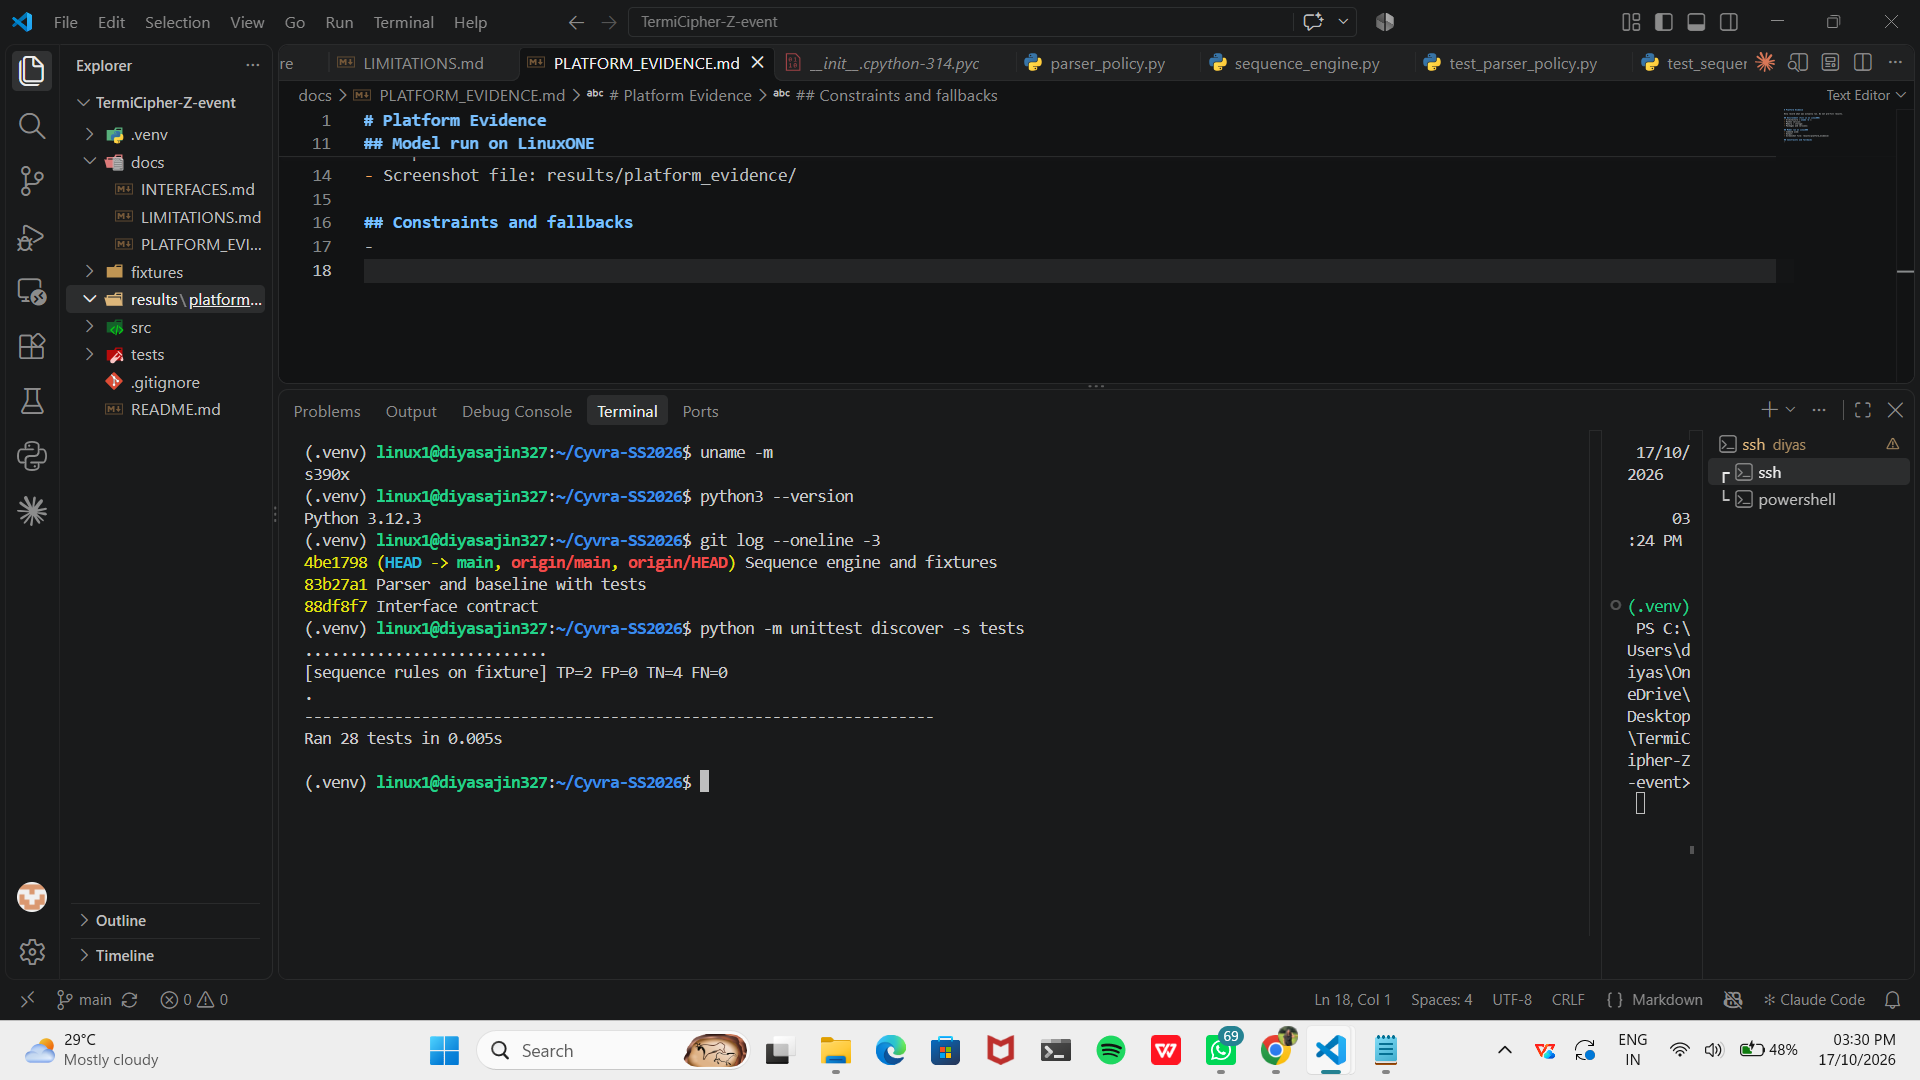
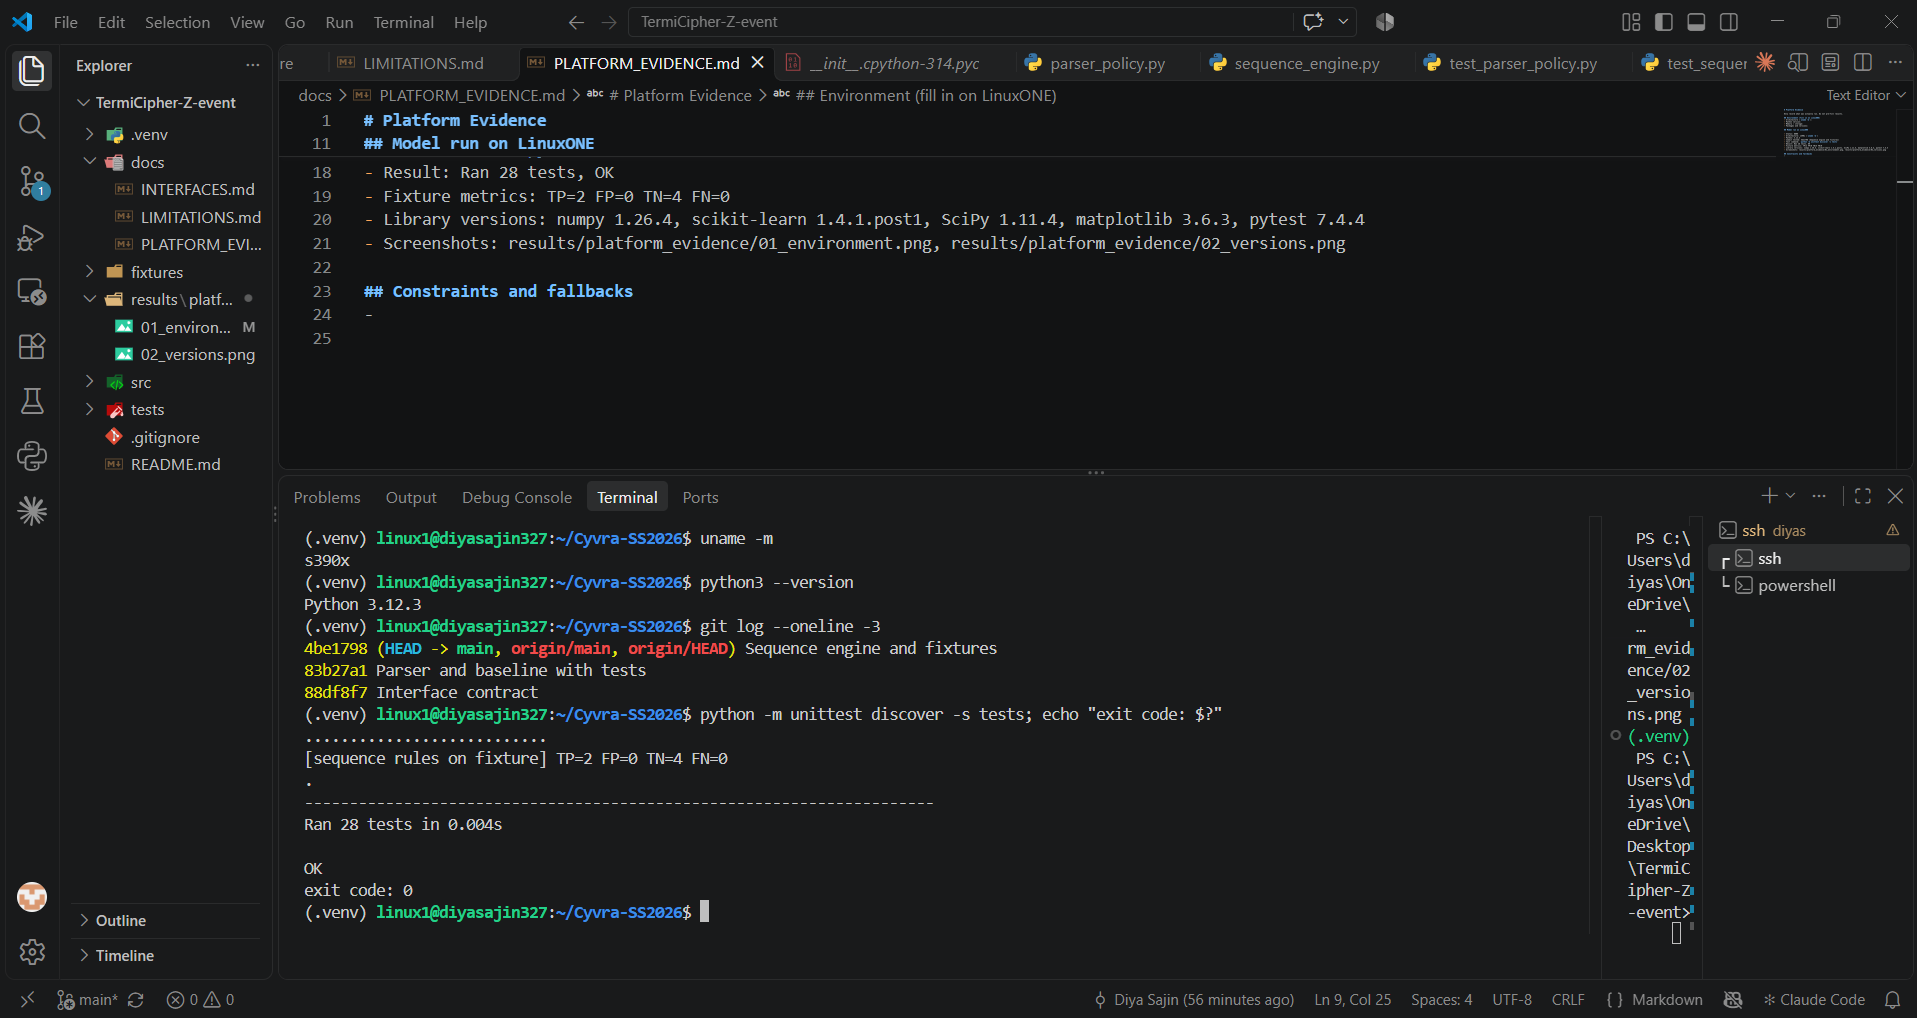
Complete LinuxONE evidence and environment details

diff --git a/docs/PLATFORM_EVIDENCE.md b/docs/PLATFORM_EVIDENCE.md
@@ -3,10 +3,10 @@
 Only record what was actually run. Do not pre-fill results.
 
 ## Environment (fill in on LinuxONE)
-- Architecture (`uname -m`):
-- Python version:
-- Memory / storage:
-- Packages and versions:
+- Architecture (`uname -m`): s390x
+- Python version: 3.12.3
+- Memory / storage: 7.8 GiB RAM (6.6 GiB available), no swap; 50 GB root disk, 3.0 GB used, 45 GB free
+- Packages and versions: numpy 1.26.4, scikit-learn 1.4.1.post1, SciPy 1.11.4, matplotlib 3.6.3, pytest 7.4.4
 
 ## Model run on LinuxONE
 
@@ -21,4 +21,4 @@ Only record what was actually run. Do not pre-fill results.
 - Screenshots: results/platform_evidence/01_environment.png, results/platform_evidence/02_versions.png
 
 ## Constraints and fallbacks
--
+- No fallbacks were needed. The tests ran directly on LinuxONE (s390x) in the project's `.venv`.
